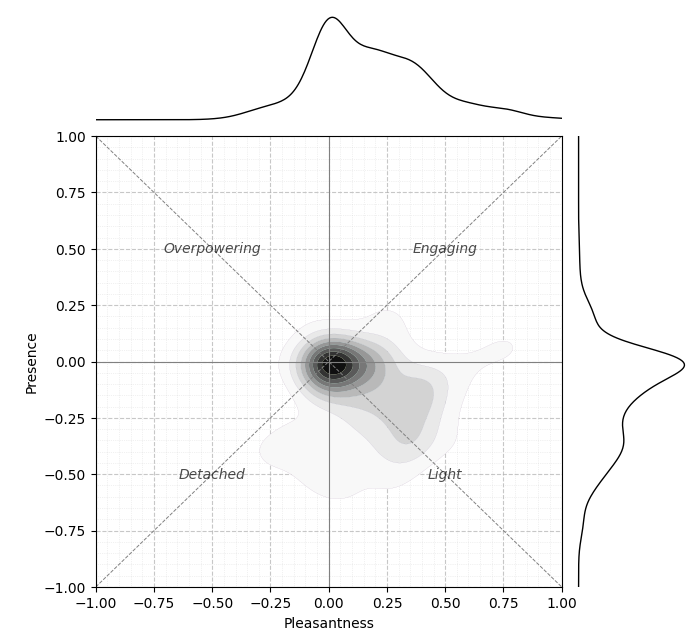
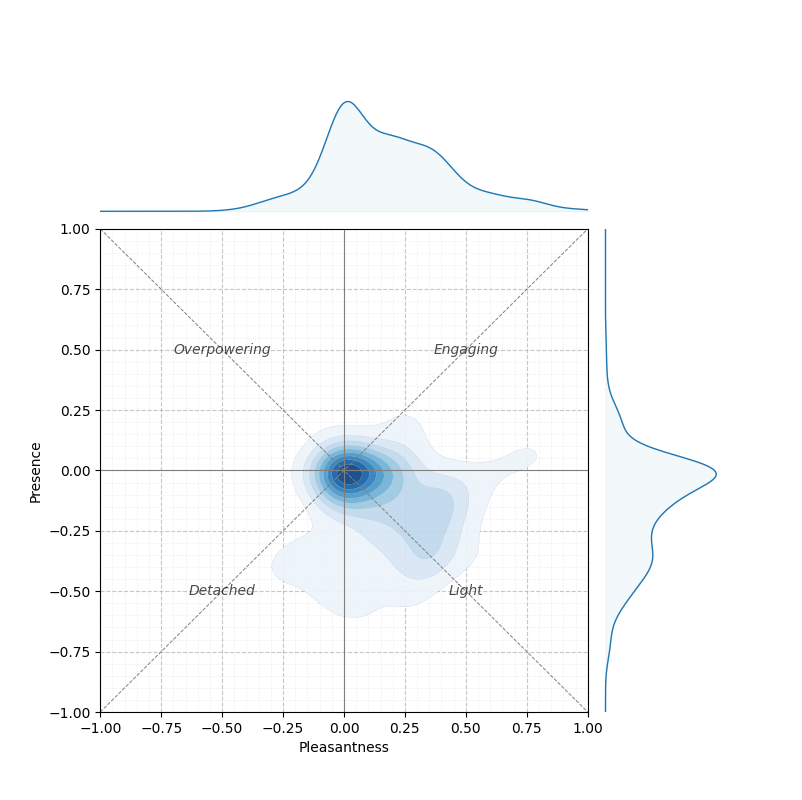
Changed reference png images for documentation

diff --git a/src/smellscapy/plotting/utils.py b/src/smellscapy/plotting/utils.py
@@ -170,7 +170,7 @@ def get_default_plot_params():
         "show_points": True,
         "point_size": 30,
         "point_alpha": 0.2,
-        "point_color": "blue",
+        "point_color": "tab:blue",
 
         # Raggruppamento/colori
         "group_by_col": None,

diff --git a/docs/tutorials/visualizations.md b/docs/tutorials/visualizations.md
@@ -29,7 +29,7 @@ plot_scatter(df)
 plot_scatter(
     df,
     figsize=(10, 10),
-    group_col = "Smell source",
+    group_by_col = "Smell source",
     filename="Figure1.png"
 )
 ```
@@ -65,7 +65,7 @@ plot_simple_density(
 #Grouping
 plot_simple_density(
     df,
-    group_col="Smell source",
+    group_by_col="Smell source",
     palette="tab20"
 )
 ```
@@ -92,7 +92,7 @@ plot_density(df)
 #Grouping
 plot_simple_density(
     df,
-    group_col="Smell source"
+    group_by_col="Smell source"
 )
 ```
 ![plot10](plot10.png)
@@ -118,7 +118,7 @@ smpy.plot_dynamic(df)
 #Grouping
 smpy.plot_dynamic(
     df,
-    group_col="Smell source"
+    group_by_col="Smell source"
 )
 ```
 <iframe src="../plot_dynamic_example.html"
